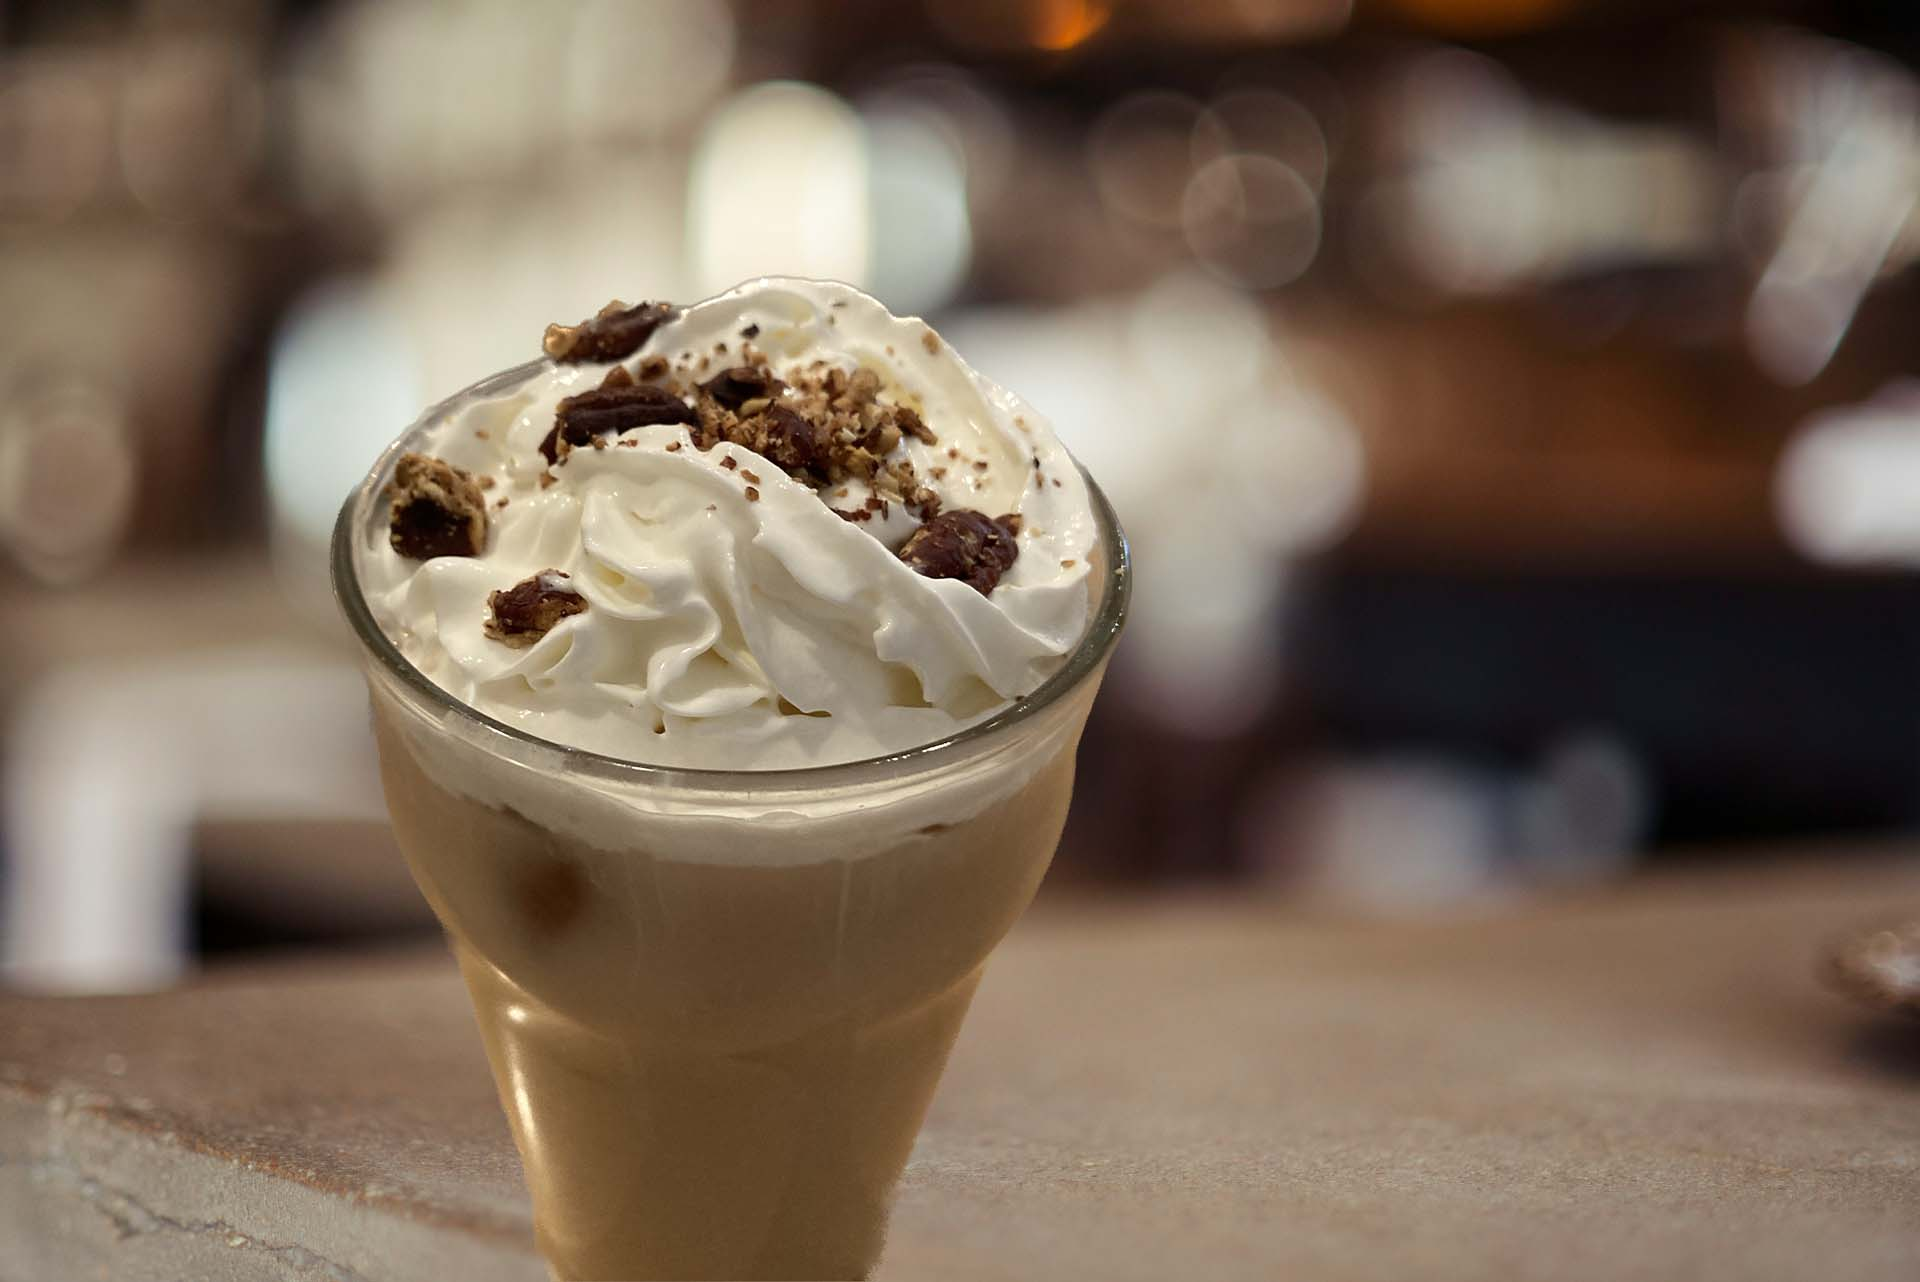
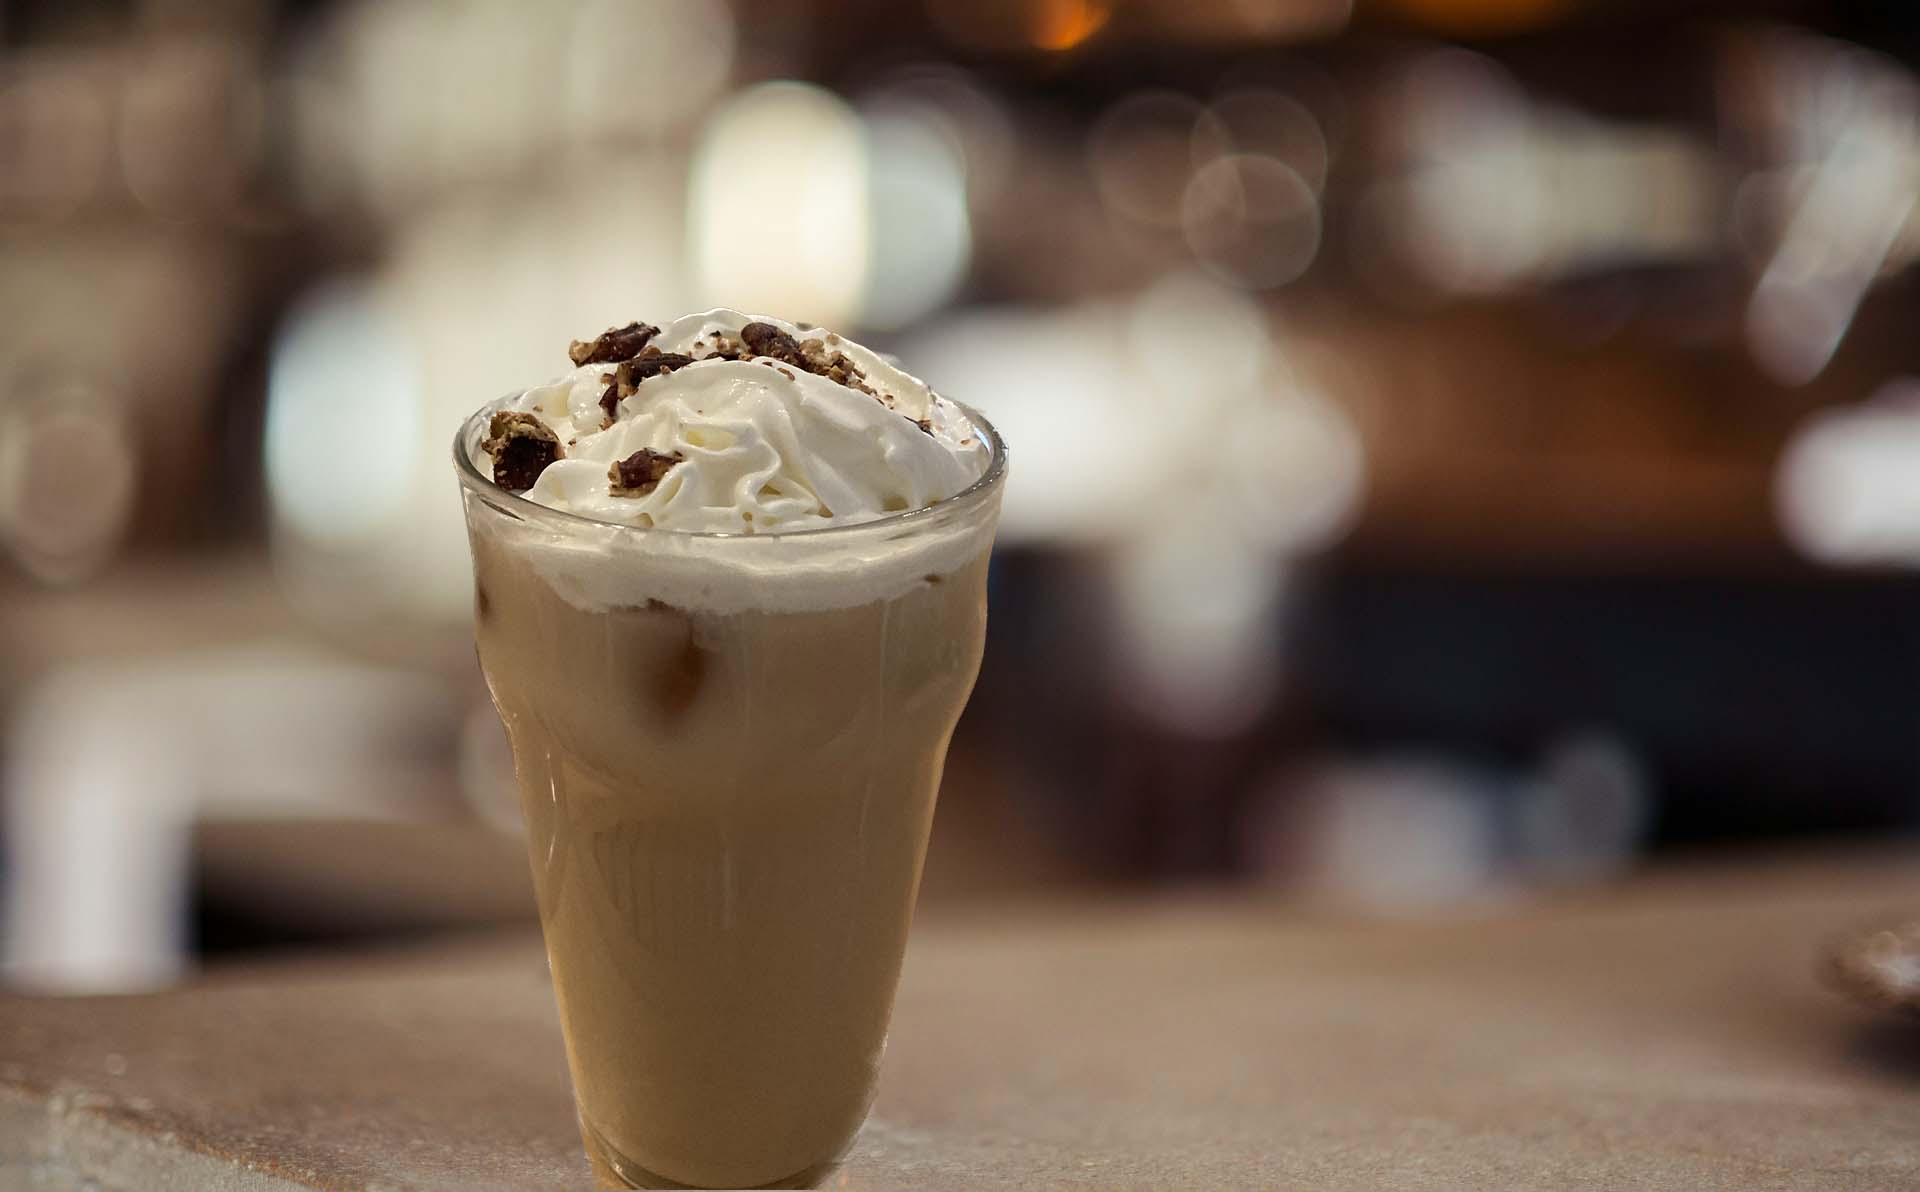
update featured image

diff --git a/index.html b/index.html
@@ -834,7 +834,7 @@ if(host != "localhost")
   <a class="flex flex-wrap article border border-neutral-200 dark:border-neutral-700 border-2 rounded-md backdrop-blur" href="/posts/homemade-milktea/">
     
         
-        <div class="w-full md:w-auto h-full thumbnail nozoom " style="background-image:url(/posts/homemade-milktea/featured_huebbfad1edfa8e198fe68a27ac6a615ca_97373_600x0_resize_q75_box.jpg);"></div>
+        <div class="w-full md:w-auto h-full thumbnail nozoom " style="background-image:url(/posts/homemade-milktea/featured_huebbfad1edfa8e198fe68a27ac6a615ca_79596_600x0_resize_q75_box.jpg);"></div>
         
       <div class=" p-4">
       <div class="items-center text-xl font-semibold">

diff --git a/authors/avocado/index.html b/authors/avocado/index.html
@@ -804,7 +804,7 @@ if(host != "localhost")
     
     <div class="min-h-full border border-neutral-200 dark:border-neutral-700 border-2 rounded overflow-hidden shadow-2xl relative backdrop-blur">
         
-        <div class="w-full thumbnail_card nozoom" style="background-image:url(/posts/homemade-milktea/featured_huebbfad1edfa8e198fe68a27ac6a615ca_97373_600x0_resize_q75_box.jpg);"></div>
+        <div class="w-full thumbnail_card nozoom" style="background-image:url(/posts/homemade-milktea/featured_huebbfad1edfa8e198fe68a27ac6a615ca_79596_600x0_resize_q75_box.jpg);"></div>
         
       
 

diff --git a/categories/kitchen/index.html b/categories/kitchen/index.html
@@ -808,7 +808,7 @@ if(host != "localhost")
     
     <div class="min-h-full border border-neutral-200 dark:border-neutral-700 border-2 rounded overflow-hidden shadow-2xl relative backdrop-blur">
         
-        <div class="w-full thumbnail_card nozoom" style="background-image:url(/posts/homemade-milktea/featured_huebbfad1edfa8e198fe68a27ac6a615ca_97373_600x0_resize_q75_box.jpg);"></div>
+        <div class="w-full thumbnail_card nozoom" style="background-image:url(/posts/homemade-milktea/featured_huebbfad1edfa8e198fe68a27ac6a615ca_79596_600x0_resize_q75_box.jpg);"></div>
         
       
 

diff --git a/posts/index.html b/posts/index.html
@@ -806,7 +806,7 @@ if(host != "localhost")
     
     <div class="min-h-full border border-neutral-200 dark:border-neutral-700 border-2 rounded overflow-hidden shadow-2xl relative backdrop-blur">
         
-        <div class="w-full thumbnail_card nozoom" style="background-image:url(/posts/homemade-milktea/featured_huebbfad1edfa8e198fe68a27ac6a615ca_97373_600x0_resize_q75_box.jpg);"></div>
+        <div class="w-full thumbnail_card nozoom" style="background-image:url(/posts/homemade-milktea/featured_huebbfad1edfa8e198fe68a27ac6a615ca_79596_600x0_resize_q75_box.jpg);"></div>
         
       
 

diff --git a/tags/奶茶/index.html b/tags/奶茶/index.html
@@ -749,7 +749,7 @@ if(host != "localhost")
     
     <div class="min-h-full border border-neutral-200 dark:border-neutral-700 border-2 rounded overflow-hidden shadow-2xl relative backdrop-blur">
         
-        <div class="w-full thumbnail_card nozoom" style="background-image:url(/posts/homemade-milktea/featured_huebbfad1edfa8e198fe68a27ac6a615ca_97373_600x0_resize_q75_box.jpg);"></div>
+        <div class="w-full thumbnail_card nozoom" style="background-image:url(/posts/homemade-milktea/featured_huebbfad1edfa8e198fe68a27ac6a615ca_79596_600x0_resize_q75_box.jpg);"></div>
         
       
 

diff --git a/tags/懶人食譜/index.html b/tags/懶人食譜/index.html
@@ -749,7 +749,7 @@ if(host != "localhost")
     
     <div class="min-h-full border border-neutral-200 dark:border-neutral-700 border-2 rounded overflow-hidden shadow-2xl relative backdrop-blur">
         
-        <div class="w-full thumbnail_card nozoom" style="background-image:url(/posts/homemade-milktea/featured_huebbfad1edfa8e198fe68a27ac6a615ca_97373_600x0_resize_q75_box.jpg);"></div>
+        <div class="w-full thumbnail_card nozoom" style="background-image:url(/posts/homemade-milktea/featured_huebbfad1edfa8e198fe68a27ac6a615ca_79596_600x0_resize_q75_box.jpg);"></div>
         
       
 

diff --git a/posts/homemade-milktea/index.html b/posts/homemade-milktea/index.html
@@ -719,7 +719,7 @@ if(host != "localhost")
 
     
     <div class="fixed inset-x-0 top-0 h-[800px] single_hero_background nozoom"
-    style="background-image:url(/posts/homemade-milktea/featured_huebbfad1edfa8e198fe68a27ac6a615ca_97373_1200x0_resize_q75_box.jpg);">
+    style="background-image:url(/posts/homemade-milktea/featured_huebbfad1edfa8e198fe68a27ac6a615ca_79596_1200x0_resize_q75_box.jpg);">
     
 
 
